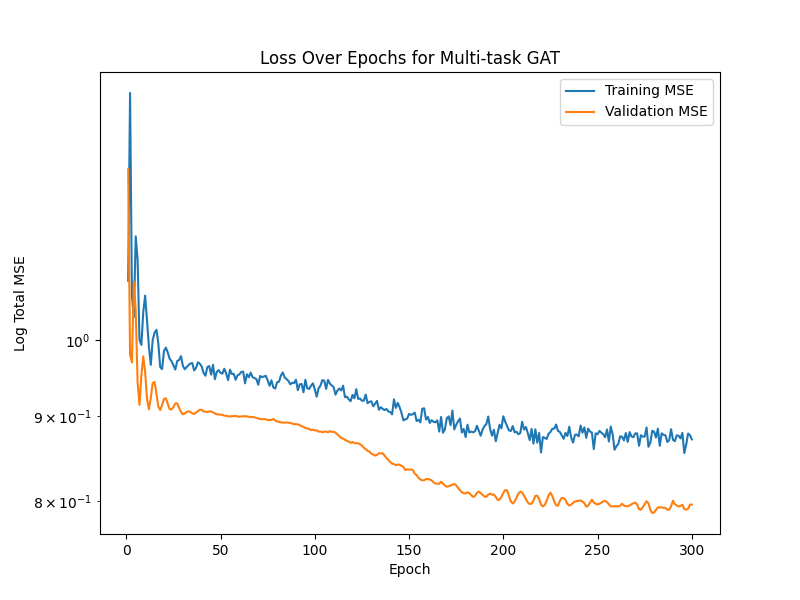
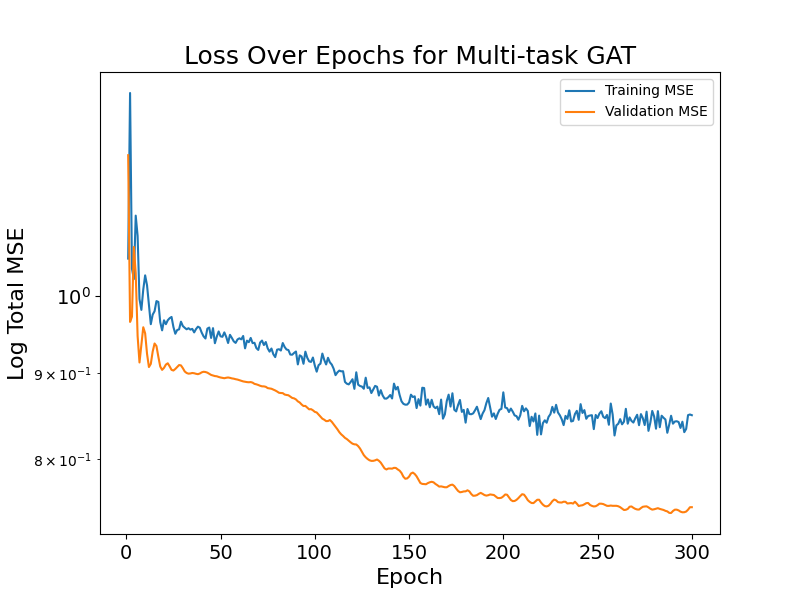
Inverse transformed MSE back to original space instead of scaled; added MSE & R2 plots

diff --git a/GAT_updates/DEC01_train.py b/GAT_updates/DEC01_train.py
@@ -7,6 +7,8 @@ import torch.nn.functional as F
 from sklearn.metrics import r2_score, mean_squared_error
 from datetime import datetime
 import matplotlib.pyplot as plt
+import seaborn as sns
+import pandas as pd
 
 random.seed(42)
 np.random.seed(42)
@@ -71,7 +73,7 @@ def eval_model(model, data, mask):
     return total_loss.item()
 
 ## added a detailed evaluation function to get per-disease metrics
-def eval_model_detailed(model, data, mask, split_name="Test"):
+def eval_model_detailed(model, data, mask, y_mean, y_std, split_name="Test"):
     model.eval()
     with torch.no_grad():
         pred_ad, pred_pd, pred_ftd, pred_als, _ = model(data)
@@ -80,11 +82,14 @@ def eval_model_detailed(model, data, mask, split_name="Test"):
     y = data.y[mask].cpu().numpy()
     yhat = preds[mask].cpu().numpy()
 
+    y_orig = (y * y_std[None, :]) + y_mean[None, :] # broadcasting needed so that inverse transformation is correct
+    yhat_orig = (yhat * y_std[None, :]) + y_mean[None, :]
+
     diseases = ["AD", "PD", "FTD", "ALS"]
-    print(f"\n{split_name} metrics (scaled space):")
+    print(f"\n{split_name} metrics (original space):")
     for i, name in enumerate(diseases):
-        mse = mean_squared_error(y[:, i], yhat[:, i])
-        r2 = r2_score(y[:, i], yhat[:, i])
+        mse = mean_squared_error(y_orig[:, i], yhat_orig[:, i])
+        r2 = r2_score(y_orig[:, i], yhat_orig[:, i])
         print(f"  {name}: MSE={mse:.4f}, R²={r2:.4f}")
 
 def train_one_config(
@@ -207,9 +212,11 @@ def plot(t_losses, v_losses, epochs):
     plt.plot(epochs, t_losses, label = 'Training MSE')
     plt.plot(epochs, v_losses, label = 'Validation MSE')
 
-    plt.title("Loss Over Epochs for Multi-task GAT")
-    plt.xlabel("Epoch")
-    plt.ylabel("Log Total MSE")
+    plt.title("Loss Over Epochs for Multi-task GAT", fontsize=18)
+    plt.xlabel("Epoch", fontsize=16)
+    plt.ylabel("Log Total MSE", fontsize=16)
+    plt.xticks(fontsize=14)
+    plt.yticks(fontsize=14)
     plt.yscale("log")
     plt.legend()
     plt.savefig("loss_over_epochs")
@@ -242,6 +249,8 @@ if __name__ == '__main__':
     y_std  = y_np[train_mask].std(axis=0)
     y_std[y_std == 0] = 1.0
     y_scaled = (y_np - y_mean) / y_std
+
+    print(x_std, y_std)
 
     data.x = torch.from_numpy(x_scaled).to(device)
     data.y = torch.from_numpy(y_scaled).to(device)
@@ -319,17 +328,19 @@ if __name__ == '__main__':
     print(f"Test loss: {test_loss:.4f}")
 
     # detailed metrics
-    eval_model_detailed(model, data, data.train_mask, split_name="Train")
-    eval_model_detailed(model, data, data.val_mask,   split_name="Val")
-    eval_model_detailed(model, data, data.test_mask,  split_name="Test")
+    eval_model_detailed(model, data, data.train_mask, y_mean=y_mean, y_std=y_std, split_name="Train")
+    eval_model_detailed(model, data, data.val_mask, y_mean=y_mean, y_std=y_std, split_name="Val")
+    eval_model_detailed(model, data, data.test_mask, y_mean=y_mean, y_std=y_std, split_name="Test")
 
     # baseline zero-prediction comparison
-    y = data.y[data.test_mask].cpu().numpy()
-    yhat_zero = np.zeros_like(y)
+    y_scaled_test = data.y[data.test_mask].cpu().numpy()
+    y_orig = (y_scaled_test * y_std[None, :]) + y_mean[None, :] # broadcasting y_mean and y_std
+    yhat_zero_scaled = np.zeros_like(y_orig)
+    yhat_zero_orig = (yhat_zero_scaled * y_std[None, :]) + y_mean[None, :]
 
     for i, name in enumerate(["AD", "PD", "FTD", "ALS"]):
-        mse0 = mean_squared_error(y[:, i], yhat_zero[:, i])
-        r20 = r2_score(y[:, i], yhat_zero[:, i])
+        mse0 = mean_squared_error(y_orig[:, i], yhat_zero_orig[:, i])
+        r20 = r2_score(y_orig[:, i], yhat_zero_orig[:, i])
         print(f"Baseline ({name}) – MSE={mse0:.4f}, R²={r20:.4f}")
 
     # save model + config
@@ -350,3 +361,163 @@ if __name__ == '__main__':
     with open(config_root_path, 'w') as f:
         json.dump(best_config, f, indent=2)
     print("Saved best hyperparameters to", config_root_path)
+
+    # plot metrics for each split
+    diseases = ['AD', 'PD', 'FTD', 'ALS']
+
+    # Train metrics (original space):
+    # AD: MSE=0.0022, R²=0.2787
+    # PD: MSE=0.0009, R²=0.3068
+    # FTD: MSE=0.0014, R²=0.1625
+    # ALS: MSE=0.0046, R²=0.0682
+
+    best_train = {'MSE_ad': 0.0022, 'R2_ad': 0.2787, 
+                  'MSE_pd': 0.0009, 'R2_pd': 0.3068, 
+                  'MSE_ftd': 0.0014, 'R2_ftd': 0.1625, 
+                  'MSE_als': 0.0046, 'R2_als': 0.0682}
+
+    # Val metrics (original space):
+    # AD: MSE=0.0022, R²=0.2471
+    # PD: MSE=0.0010, R²=0.2840
+    # FTD: MSE=0.0012, R²=0.1413
+    # ALS: MSE=0.0043, R²=0.0261
+    best_val = {'MSE_ad': 0.0022, 'R2_ad': 0.2840, 
+                'MSE_pd': 0.0010, 'R2_pd': 0.2089, 
+                'MSE_ftd': 0.0012, 'R2_ftd': 0.1413, 
+                'MSE_als': 0.0043, 'R2_als': 0.0261}
+
+
+    # Test metrics (original space):
+    # AD: MSE=0.0023, R²=0.2704
+    # PD: MSE=0.0009, R²=0.2911
+    # FTD: MSE=0.0014, R²=0.1434
+    # ALS: MSE=0.0039, R²=0.0383
+    best_test = {'MSE_ad': 0.0023, 'R2_ad': 0.2704, 
+                'MSE_pd': 0.0009, 'R2_pd': 0.2911, 
+                'MSE_ftd': 0.0014, 'R2_ftd': 0.1434, 
+                'MSE_als': 0.0039, 'R2_als': 0.0383}
+    
+    # put MSE values for all splits in a dict
+    all_mse = {
+        'Training': [best_train[f'MSE_{d.lower()}'] for d in diseases],
+        'Validation': [best_val[f'MSE_{d.lower()}'] for d in diseases],
+        'Testing': [best_test[f'MSE_{d.lower()}'] for d in diseases]
+    }
+
+    mse_df = pd.DataFrame(all_mse, index=diseases)
+    mse_df.index.name = 'disease'
+
+    # melt df to get disease, splits, and mse columns
+    mse_melted = mse_df.reset_index().melt(
+        id_vars='disease', 
+        var_name='split', 
+        value_name='MSE'
+    )
+
+    # plotting MSE
+    plt.figure(figsize=(10,6))
+    sns.barplot(x='disease', y='MSE', hue='split', data=mse_melted, palette='viridis')
+    plt.ylabel('MSE Value', fontsize=16)
+    plt.xlabel('Disease', fontsize=16)
+    plt.xticks(fontsize=14)
+    plt.yticks(fontsize=14)
+    plt.title('MSE for Each Split', fontsize=18)
+    plt.legend(loc='upper right', bbox_to_anchor=(1.3, 1.0), fontsize=14)
+    plt.ylim(0, 0.005)
+    plt.tight_layout()
+    plt.savefig("GAT_MSE.png")
+
+    # plotting R^2
+    # put R^2 values for all splits in a dict
+    all_r2 = {
+        'Training': [best_train[f'R2_{d.lower()}'] for d in diseases],
+        'Validation': [best_val[f'R2_{d.lower()}'] for d in diseases],
+        'Testing': [best_test[f'R2_{d.lower()}'] for d in diseases]
+    }
+
+    r2_df = pd.DataFrame(all_r2, index=diseases)
+    r2_df.index.name = 'disease'
+
+    # melt df to get disease, splits, and r2 columns
+    r2_melted = r2_df.reset_index().melt(
+        id_vars='disease', 
+        var_name='split', 
+        value_name='R2'
+    )
+
+    # plotting R^2
+    plt.figure(figsize=(10,6))
+    sns.barplot(x='disease', y='R2', hue='split', data=r2_melted, palette='viridis')
+    plt.ylabel('$R^2$', fontsize=16)
+    plt.xlabel('Disease', fontsize=16)
+    plt.xticks(fontsize=14)
+    plt.yticks(fontsize=14)
+    plt.title('$R^2$ for Each Split', fontsize=18)
+    plt.legend(loc='upper right', bbox_to_anchor=(1.3, 1.0), fontsize=14)
+    plt.ylim(0, 0.35)
+    plt.tight_layout()
+    plt.savefig("GAT_R2.png")
+
+
+    # plotting for baseline
+    # Baseline (AD) – MSE=0.0032, R²=-0.0009
+    # Baseline (PD) – MSE=0.0012, R²=-0.0001
+    # Baseline (FTD) – MSE=0.0016, R²=-0.0003
+    # Baseline (ALS) – MSE=0.0040, R²=-0.0000
+    baseline = {'MSE_ad': 0.0032, 'R2_ad': -0.0009, 
+                'MSE_pd': 0.0012, 'R2_pd': -0.0001, 
+                'MSE_ftd': 0.0016, 'R2_ftd': -0.0003, 
+                'MSE_als': 0.0040, 'R2_als': -0.0000}
+    
+    # all metrics to turn into df
+    all_bl_metrics = {'Disease' : diseases,
+        'MSE': [baseline[f'MSE_{d.lower()}'] for d in diseases],
+        'R2' : [baseline[f'R2_{d.lower()}'] for d in diseases]
+        }
+
+    all_bl_df = pd.DataFrame(all_bl_metrics)
+  
+
+    # melt df to get just MSE
+    mse_melted_bl = all_bl_df.reset_index().melt(
+        id_vars='Disease', 
+        value_vars='MSE',
+        var_name='Metric', 
+        value_name='Value'
+    )
+
+    # plotting MSE
+    plt.figure(figsize=(10,6))
+    sns.barplot(x='Disease', y='Value', data=mse_melted_bl, palette='viridis')
+    plt.ylabel('MSE Value', fontsize=16)
+    plt.xlabel('Disease', fontsize=16)
+    plt.xticks(fontsize=14)
+    plt.yticks(fontsize=14)
+    plt.title('Baseline Model MSE by Disease', fontsize=18)
+    #plt.legend(loc='upper right', bbox_to_anchor=(1.3, 1.0), fontsize=14)
+    plt.ylim(0, 0.005)
+    plt.tight_layout()
+    plt.savefig("baseline_MSE.png")
+
+    # plotting R^2
+
+    # melt df to get just R2
+    r2_melted_bl = all_bl_df.reset_index().melt(
+    id_vars='Disease', 
+    value_vars='R2',
+    var_name='Metric', 
+    value_name='Value'
+    )
+
+    # plotting R^2
+    plt.figure(figsize=(10,6))
+    sns.barplot(x='Disease', y='Value', data=r2_melted_bl, palette='viridis')
+    plt.ylabel('$R^2$', fontsize=16)
+    plt.xlabel('Disease', fontsize=16)
+    plt.xticks(fontsize=14)
+    plt.yticks(fontsize=14)
+    plt.title('Baseline Model $R^2$ by Disease', fontsize=18)
+    #plt.legend(loc='upper right', bbox_to_anchor=(1.3, 1.0), fontsize=14)
+    plt.ylim(0, 0.35)
+    plt.tight_layout()
+    plt.savefig("baseline_R2.png")

diff --git a/GAT_updates/DEC01_model.py b/GAT_updates/DEC01_model.py
@@ -41,14 +41,15 @@ class MultiTaskGNN(torch.nn.Module):
 
         # first GAT layer with edge weights
         x = self.conv1(x, edge_index, edge_attr=edge_attr)
-        x = F.elu(x)
+        x = F.elu(x) #, negative_slope=0.2
 
         x = F.dropout(x, p=self.dropout, training=self.training)
 
         # second GAT layer (these embeddings are what we'll cluster)
         shared_embeddings = self.conv2(x, edge_index, edge_attr=edge_attr)
+        shared_embeddings = F.elu(shared_embeddings) #, negative_slope=0.2
 
-        # disease-specific predictions
+        # disease-specific predictions with tanh to constrain output to [-1, 1]
         pred_ad  = self.out_ad(shared_embeddings)
         pred_pd  = self.out_pd(shared_embeddings)
         pred_ftd = self.out_ftd(shared_embeddings)
